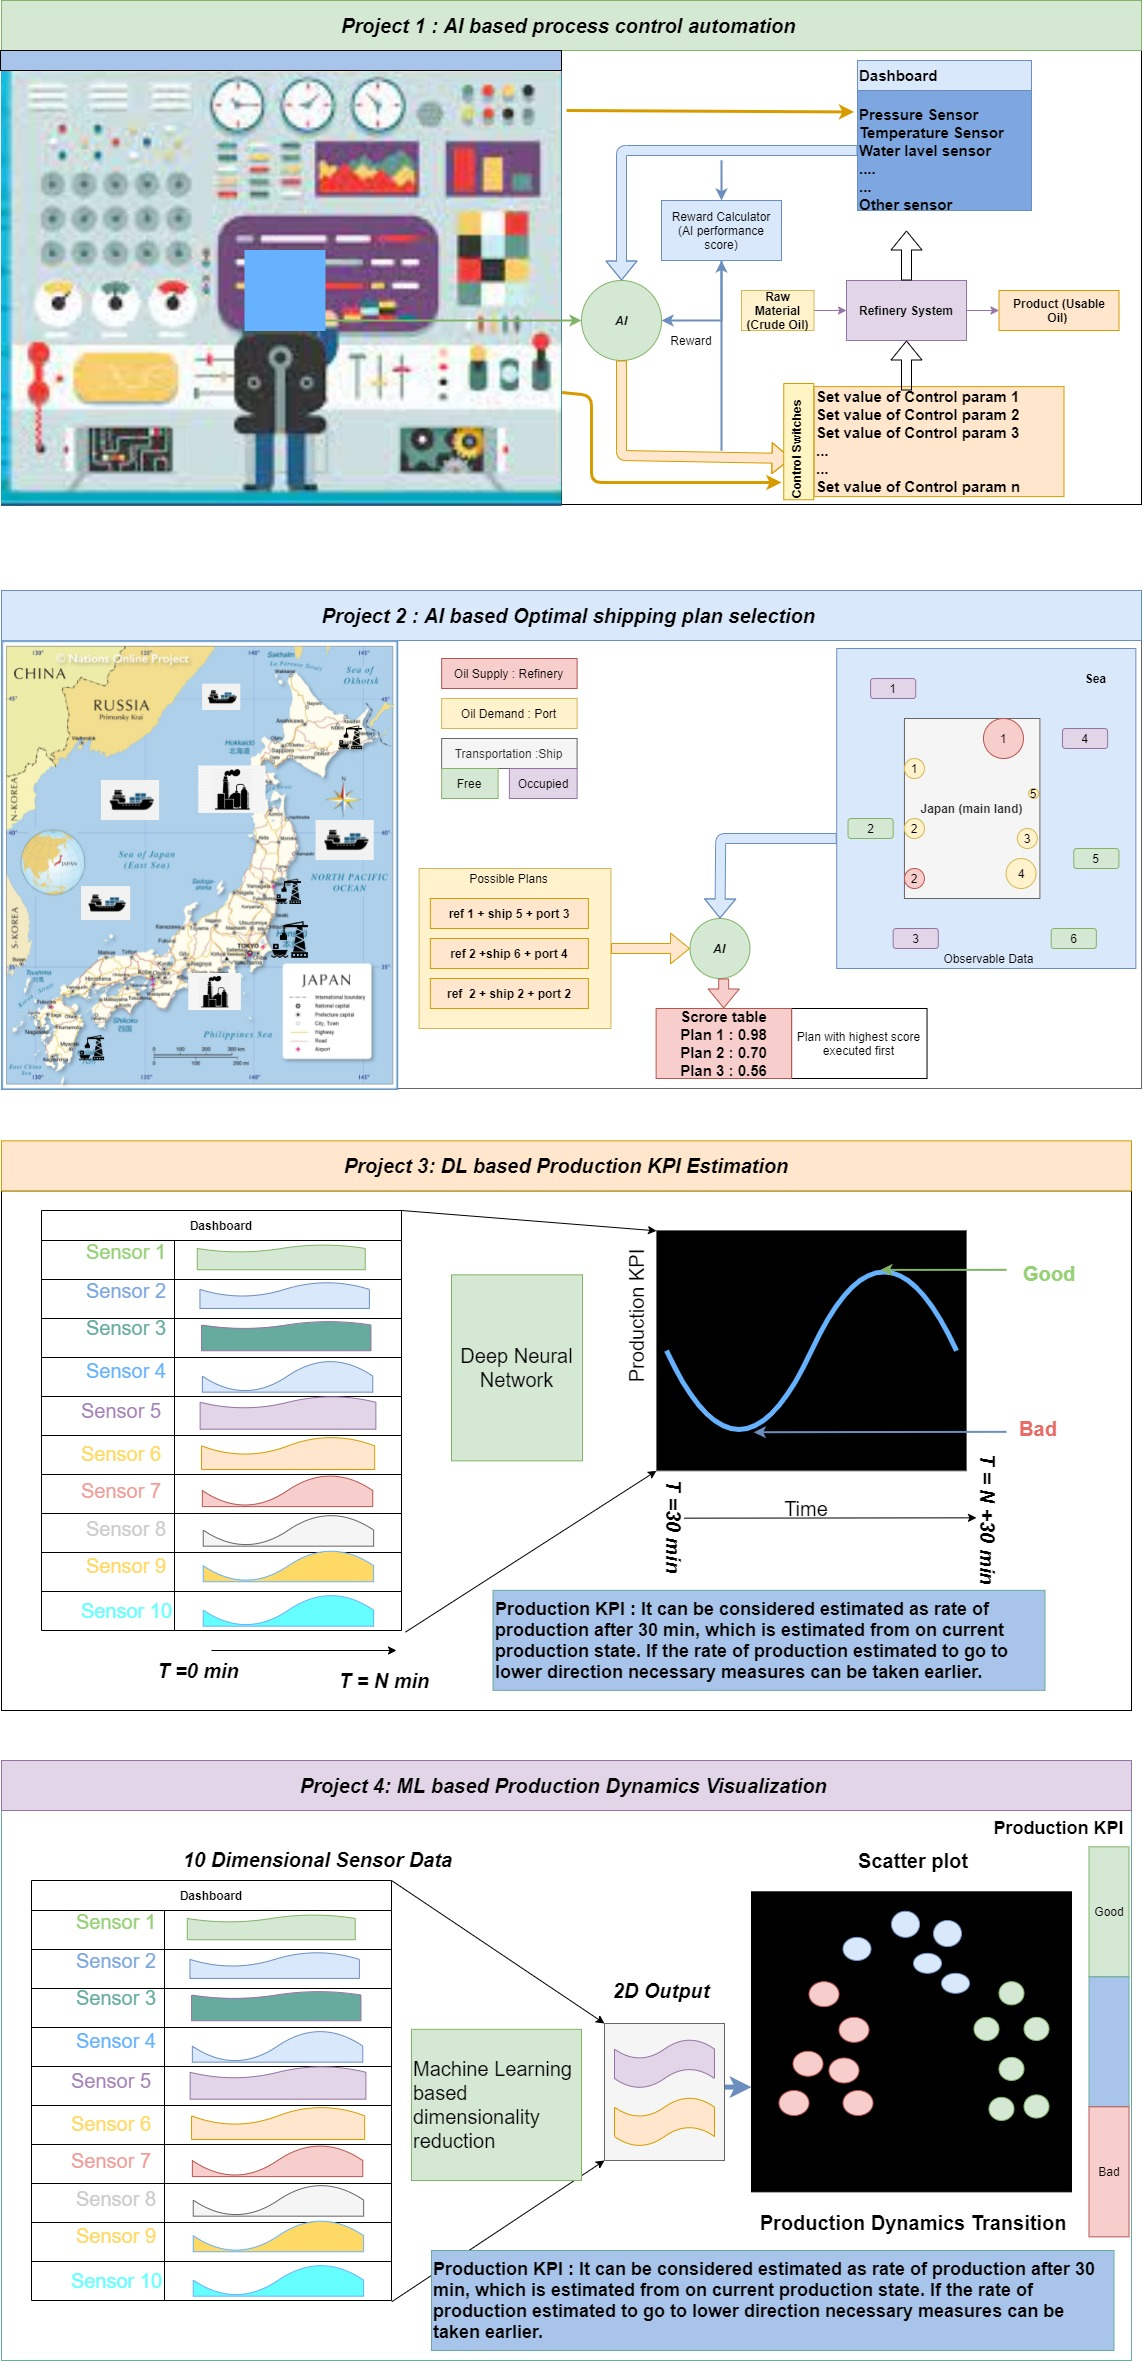
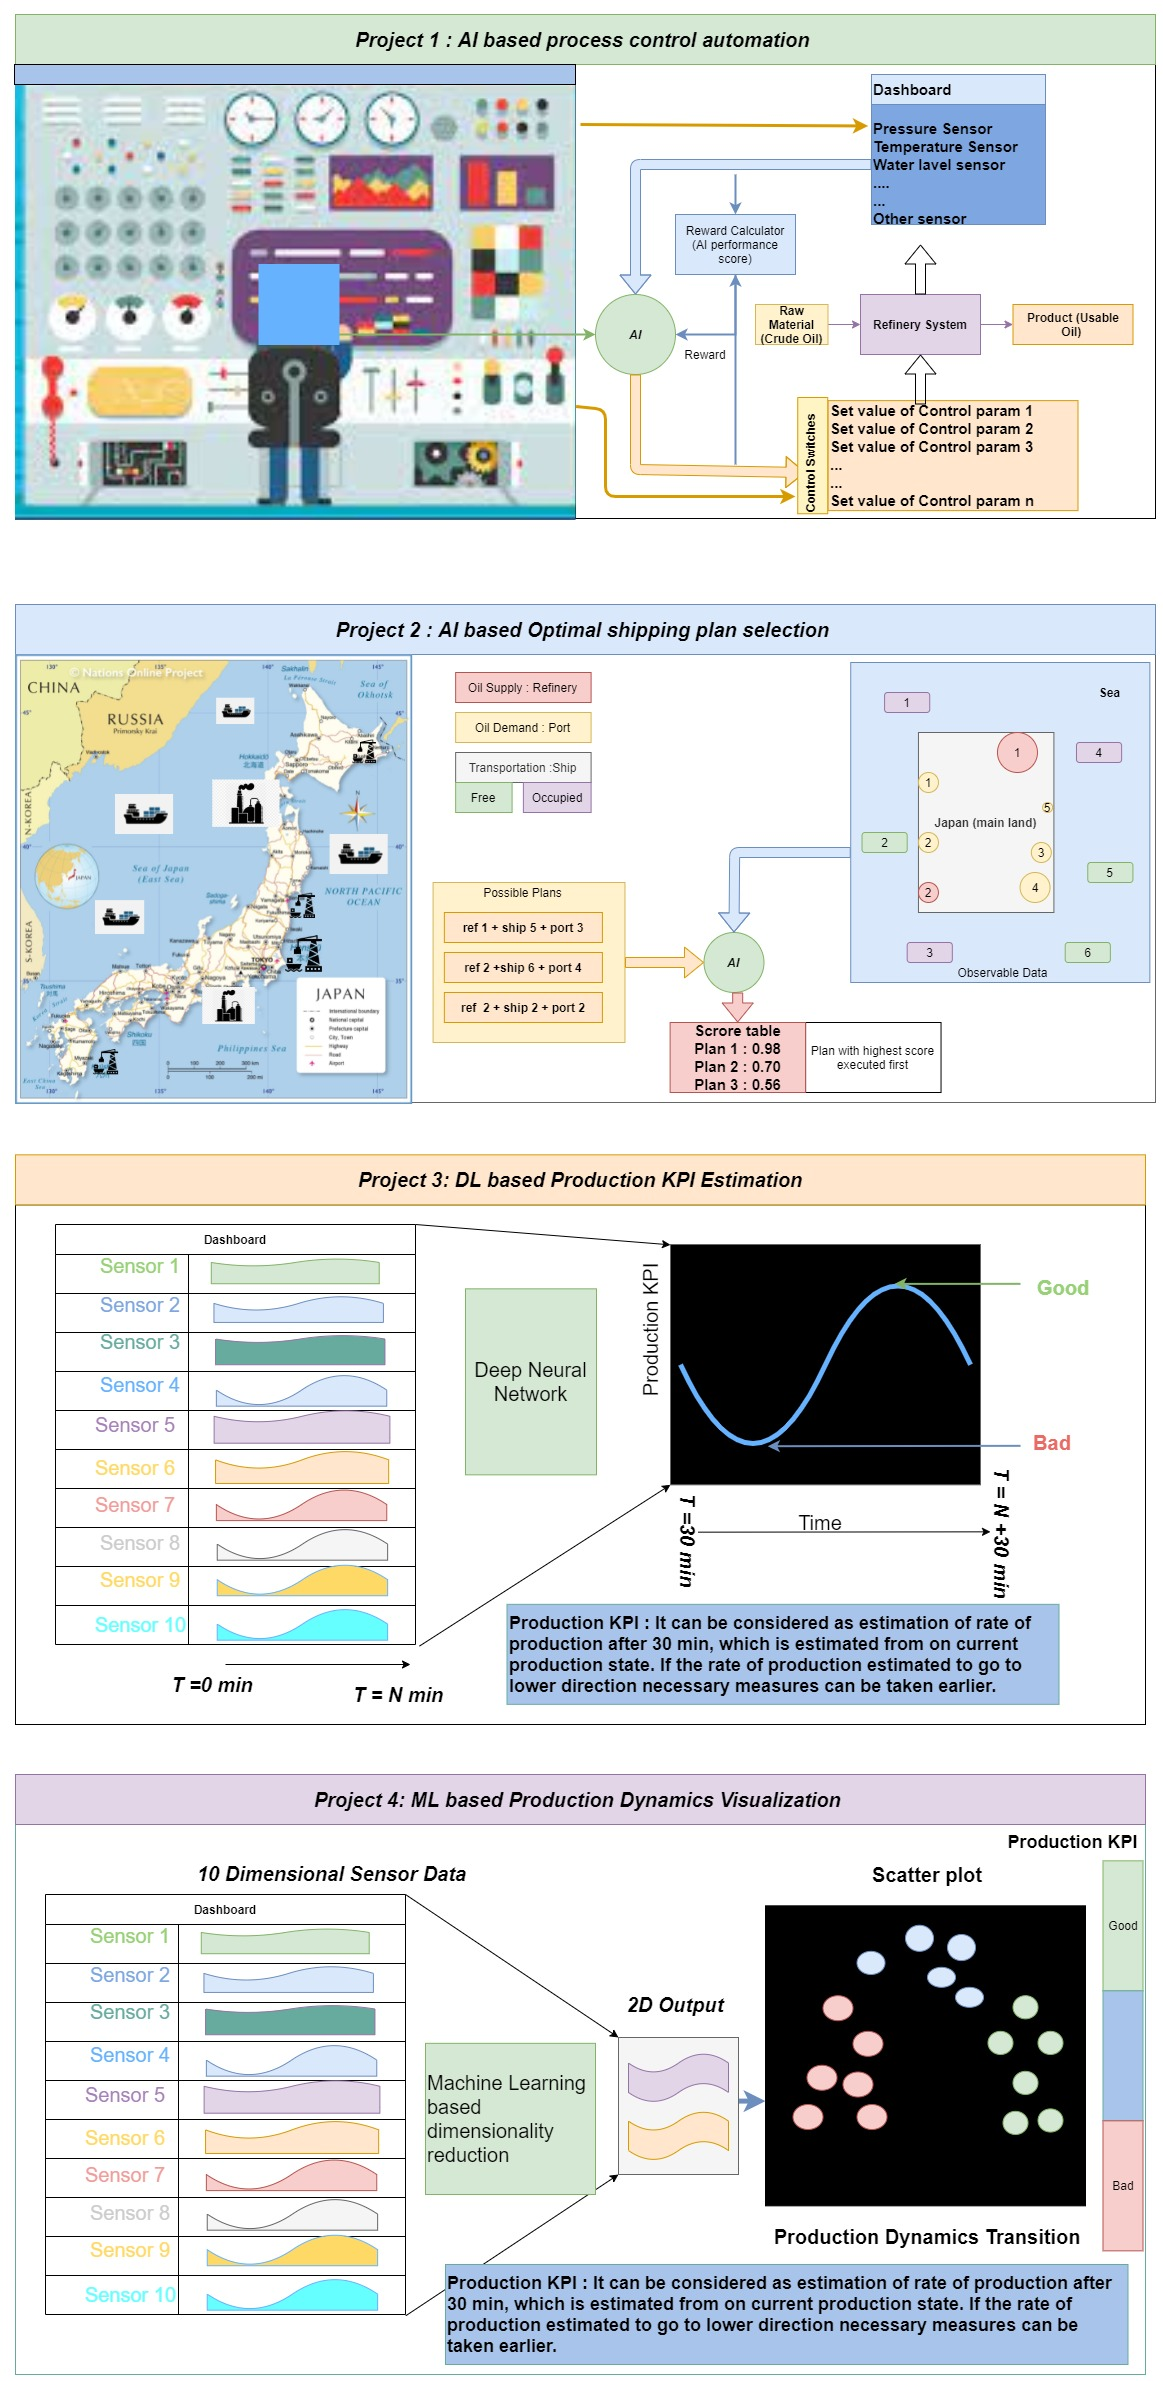
saving progress

diff --git a/index.html b/index.html
@@ -13160,18 +13160,18 @@ href ='#urc_2016_link'> University Rover Challenge - 2016</a></li>
 </div><div class="column">
 <h6>Professional AI Projects </h6>
  <ul id="ul_1">
- <li><a style="color:navyblue;font-size:15px;" href ='#ai_project_link'>Process control automation (AI) </a></li>
- <li><a style="color:navyblue;font-size:15px;" href ='#ai_project_link'>Optimal shiping plan selection (AI) </a></li>
- <li><a style="color:navyblue;font-size:15px;" href ='#ai_project_link'>Early prediction Production of KPI (DL)</a></li>
- <li><a style="color:navyblue;font-size:15px;" href ='#ai_project_link'>Production Dynamics visualization (ML)</a></li>
+ <li><a style="color:navyblue;font-size:15px;" href ='#ai_project_link_1'>Process control automation (AI) </a></li>
+ <li><a style="color:navyblue;font-size:15px;" href ='#ai_project_link_2'>Optimal shiping plan selection (AI) </a></li>
+ <li><a style="color:navyblue;font-size:15px;" href ='#ai_project_link_3'>Early prediction Production of KPI (DL)</a></li>
+ <li><a style="color:navyblue;font-size:15px;" href ='#ai_project_link_4'>Production Dynamics visualization (ML)</a></li>
 </ul>
 </div><div class="column">
 <h6>Professional Embedded System Projects </h6>
  <ul id="ul_1">
- <li><a style="color:navyblue;font-size:15px;" href ='#pi_project_link'> Vault Sequirity System </a></li>
- <li><a style="color:navyblue;font-size:15px;" href ='#pi_project_link'> Programmable Syringe Infusion Pump </a></li>
- <li><a style="color:navyblue;font-size:15px;" href ='#pi_project_link'> GPRS based Monitoring System </a></li>
- <li><a style="color:navyblue;font-size:15px;" href ='#pi_project_link'> Sening product weights to server </a></li>
+ <li><a style="color:navyblue;font-size:15px;" href ='#pi_project_link_1'> Vault Sequirity System </a></li>
+ <li><a style="color:navyblue;font-size:15px;" href ='#pi_project_link_2'> Programmable Syringe Infusion Pump </a></li>
+ <li><a style="color:navyblue;font-size:15px;" href ='#pi_project_link_3'> GPRS based Monitoring System </a></li>
+ <li><a style="color:navyblue;font-size:15px;" href ='#pi_project_link_4'> Sening product weights to server </a></li>
 </ul>
 </div>
 </div><div class = "row">
@@ -13184,9 +13184,9 @@ href ='#urc_2016_link'> University Rover Challenge - 2016</a></li>
 </div><div class="column">
 <h6> Robotics Projects Personal (Undergrad) </h6>
 <ul id="ul_1">
- <li><a style="color:navyblue;font-size:15px;" href ='#embedded_project_link'> Desktop CNC Machine(2014) </a></li>
- <li><a style="color:navyblue;font-size:15px;" href ='#embedded_project_link'> GUI software for Robotic ARM(2014) </a></li>
- <li><a style="color:navyblue;font-size:15px;" href ='#embedded_project_link'> Visually Instructed Robotic ARM(2013) </a></li>
+ <li><a style="color:navyblue;font-size:15px;" href ='#embedded_project_link_1'> Desktop CNC Machine(2014) </a></li>
+ <li><a style="color:navyblue;font-size:15px;" href ='#embedded_project_link_2'> GUI software for Robotic ARM(2014) </a></li>
+ <li><a style="color:navyblue;font-size:15px;" href ='#embedded_project_link_3'> Visually Instructed Robotic ARM(2013) </a></li>
 </ul>  
 </div><div class="column">
 </div>
@@ -14209,8 +14209,33 @@ href ='#table_of_content_link'>Go Back to Table of Content</a>
 href ='#table_of_content_link'>Go Back to Table of Content</a></br>
 
 These are some of my profesional AI solutions. Just the outline of the projects (without any technical information) is shared for confidentiality reasons.
+<div class="row">
+<a id="ai_project_link_1"></a> 
+<img src="docs/Algorihms/ai_projects_1.jpg" align="center" alt="(Open Image in new tab for full resolution)" width="100%" />
+</div>
+<br>
+<a href ='#table_of_content_link'>Go Back to Table of Content</a><br>
 
-<img src="docs/Algorihms/ai_projects.jpg" align="left" alt="(Open Image in new tab for full resolution)" width="800%" />
+<div class="row">
+<a id="ai_project_link_2"></a> 
+<img src="docs/Algorihms/ai_projects_2.jpg" align="center" alt="(Open Image in new tab for full resolution)" width="100%" />
+</div>
+<br>
+<a href ='#table_of_content_link'>Go Back to Table of Content</a><br>
+
+<div class="row">
+<a id="ai_project_link_3"></a> 
+<img src="docs/Algorihms/ai_projects_3.jpg" align="center" alt="(Open Image in new tab for full resolution)" width="100%" />
+</div>
+<br>
+<a href ='#table_of_content_link'>Go Back to Table of Content</a><br>
+
+<div class="row">
+<a id="ai_project_link_4"></a> 
+<img src="docs/Algorihms/ai_projects_4.jpg" align="center" alt="(Open Image in new tab for full resolution)" width="100%" />
+</div>
+<br>
+<a href ='#table_of_content_link'>Go Back to Table of Content</a><br>
 
 </div>
 </div>
@@ -14231,14 +14256,34 @@ href ='#table_of_content_link'>Go Back to Table of Content</a></br>
 
 All these projects I did as an employee of Pi Labs BD Ltd. www.pilabsbd.com
 
+<div class="row">
+<a id="pi_project_link_1"></a> 
+<img src="docs/old/vault_sequrity.jpg" align="center" alt="(Open Image in new tab for full resolution)" width="100%" />
+</div>
+<br>
+<a href ='#table_of_content_link'>Go Back to Table of Content</a><br>
 
-<img src="docs/old/vault_sequrity.jpg" align="left" alt="(Open Image in new tab for full resolution)" width="50%" />
+<div class="row">
+<a id="pi_project_link_2"></a> 
+<img src="docs/old/safe_box.jpg"  align='center' alt="(Open Image in new tab for full resolution)" width="100%" />
+</div>
+<a href ='#table_of_content_link'>Go Back to Table of Content</a><br>
+<br>
 
-<img src="docs/old/safe_box.jpg"  alt="(Open Image in new tab for full resolution)" width="50%" />
+<div class="row">
+<a id="pi_project_link_3"></a> 
+<img src="docs/old/syringe_pump.jpg" align="center" alt="(Open Image in new tab for full resolution)" width="100%" />
+</div>
+<br>
+<a href ='#table_of_content_link'>Go Back to Table of Content</a><br>
 
-<img src="docs/old/syringe_pump.jpg" align="left" alt="(Open Image in new tab for full resolution)" width="50%" />
+<div class="row">
+<a id="pi_project_link_4"></a>     
+<img src="docs/old/weight_machine.jpg" align='center' alt="(Open Image in new tab for full resolution)" width="100%" />
+</div>
+<br>
+<a href ='#table_of_content_link'>Go Back to Table of Content</a><br>
 
-<img src="docs/old/weight_machine.jpg" alt="(Open Image in new tab for full resolution)" width="50%" />
 </div>
 </div>
 </div>
@@ -14282,7 +14327,7 @@ href ='https://github.com/irfanhasib0/irfanhasib0.github.io/blob/master/academic
 * My undergrad thesis
 
 
-<img src="docs/old/thesis_project.jpg" alt="(Open Image in new tab for full resolution)" width="80%" />
+<img src="docs/old/thesis_project.jpg" align='center' alt="(Open Image in new tab for full resolution)" width="80%" />
 
 
 <a style="color:navyblue;font-size:15px;" 
@@ -14299,6 +14344,10 @@ href ='#table_of_content_link'>Go Back to Table of Content</a>
 <a id = "urc_2016_link"></a> 
    University Rover Challenge - 2016</h1></br>
 <br>
+<p>
+Along with my team, Interplaneter I have participated in <a href = 'http://urc.marssociety.org/'>University Rover challenge</a>, 2016 at Utah, USA. Our team attained 5th position in Phobos final. I was in charge of Robotic Arm Design and deployment. The Competition is organized by  <a href='https://www.marssociety.org/'>Mars Society</a>, USA annually for college students world wide. <a href='http://urc.marssociety.org/home/about-urc/urc2016-scores'>URC 2016 Result</a>, video link <a href='https://www.youtube.com/watch?v=MlN-VFj14LE'>YouTube</a>
+</p>
+
 <a style="color:navyblue;font-size:15px;" 
 href ='#table_of_content_link'>Go Back to Table of Content</a>
 </br>
@@ -14327,11 +14376,27 @@ href ='#table_of_content_link'>Go Back to Table of Content</a></br>
  <li> Software platform for controlling Robotic arm with openCV, python and Raspberry pi (Apr-Sep,2014)<a href='https://www.youtube.com/watch?v=hj1Wc6-8-7w'>Video Link</a></li>
 </ul>
 
-  <img src="docs/old/CNC.jpg" align="center" alt="(Open Image in new tab for full resolution)" width="50%" />
+<div class="row">
+<a id="embedded_project_link_1"></a>     
+<img src="docs/old/CNC.jpg" align="center" alt="(Open Image in new tab for full resolution)" width="100%" />
+</div>
+<br>
+<a href ='#table_of_content_link'>Go Back to Table of Content</a><br>
 
-  <img src="docs/old/Robot_Arm.jpg" align="left" alt="(Open Image in new tab for full resolution)" width="50%" />
+<div class="row">
+<a id="embedded_project_link_2"></a>     
+<img src="docs/old/Robot_Arm.jpg" align='center' alt="(Open Image in new tab for full resolution)" width="100%" />
+</div>
+<br>
+<a href ='#table_of_content_link'>Go Back to Table of Content</a><br>
 
-  <img src="docs/old/Robot_Arm_Soft.jpg" align="left" alt="(Open Image in new tab for full resolution)" width="50%" />
+<div class="row">
+<a id="embedded_project_link_3"></a>     
+<img src="docs/old/Robot_Arm_Soft.jpg" align="center" alt="(Open Image in new tab for full resolution)" width="100%" />
+</div>
+<br>
+<a href ='#table_of_content_link'>Go Back to Table of Content</a><br>
+
 </div>
 </div>
 </div>
